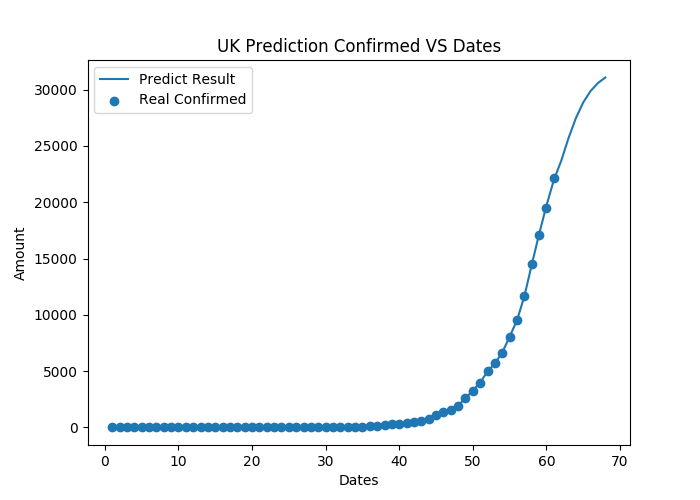
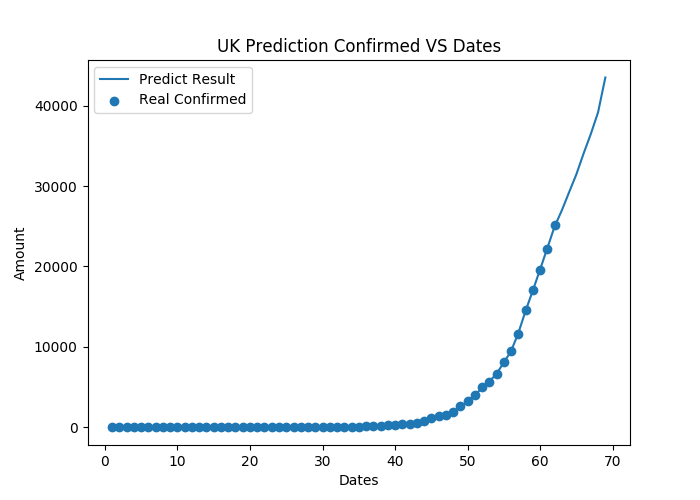
update data

diff --git a/mlp_uk.py b/mlp_uk.py
@@ -145,7 +145,7 @@ for each in each_data:
     uk_comfirmed_data.append(each['confirmed'])
 
 # add uk latest data manually
-uk_comfirmed_data.append(22141)
+uk_comfirmed_data.append(25150)
 
 uk_date_length = len(uk_comfirmed_data)
 uk_dates = list(range(1, uk_date_length + 1))
@@ -153,7 +153,8 @@ uk_dates = list(range(1, uk_date_length + 1))
 uk_comfirmed_data = np.array(uk_comfirmed_data)
 uk_dates = np.array(uk_dates)
 
-uk_absorb_amount = uk_comfirmed_data[uk_date_length-1]
+# increase absorb value
+uk_absorb_amount = uk_comfirmed_data[uk_date_length-1]*1.6
 
 uk_comfirmed_data_norm = uk_comfirmed_data / uk_absorb_amount
 
